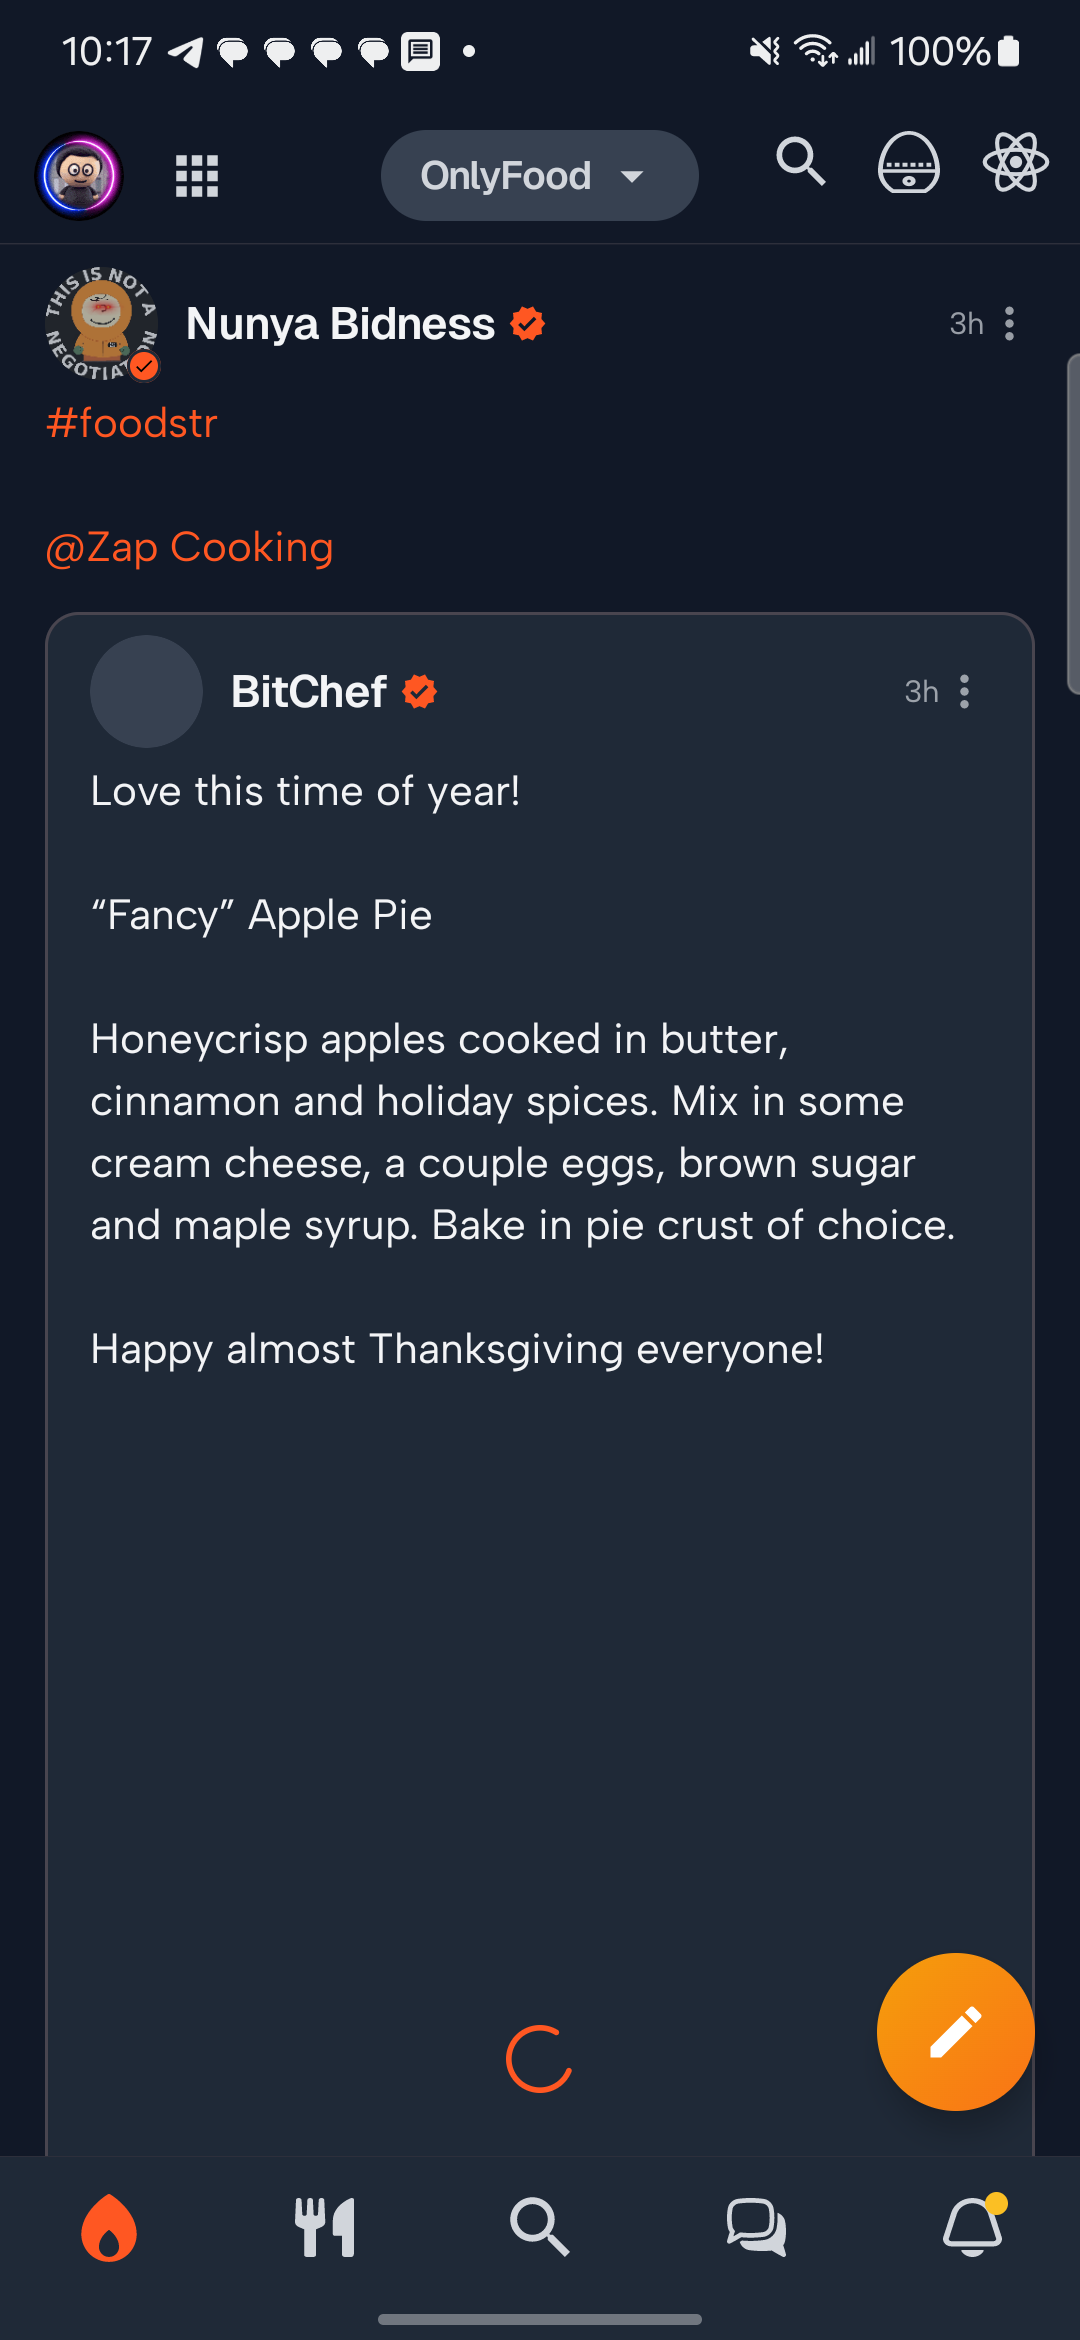
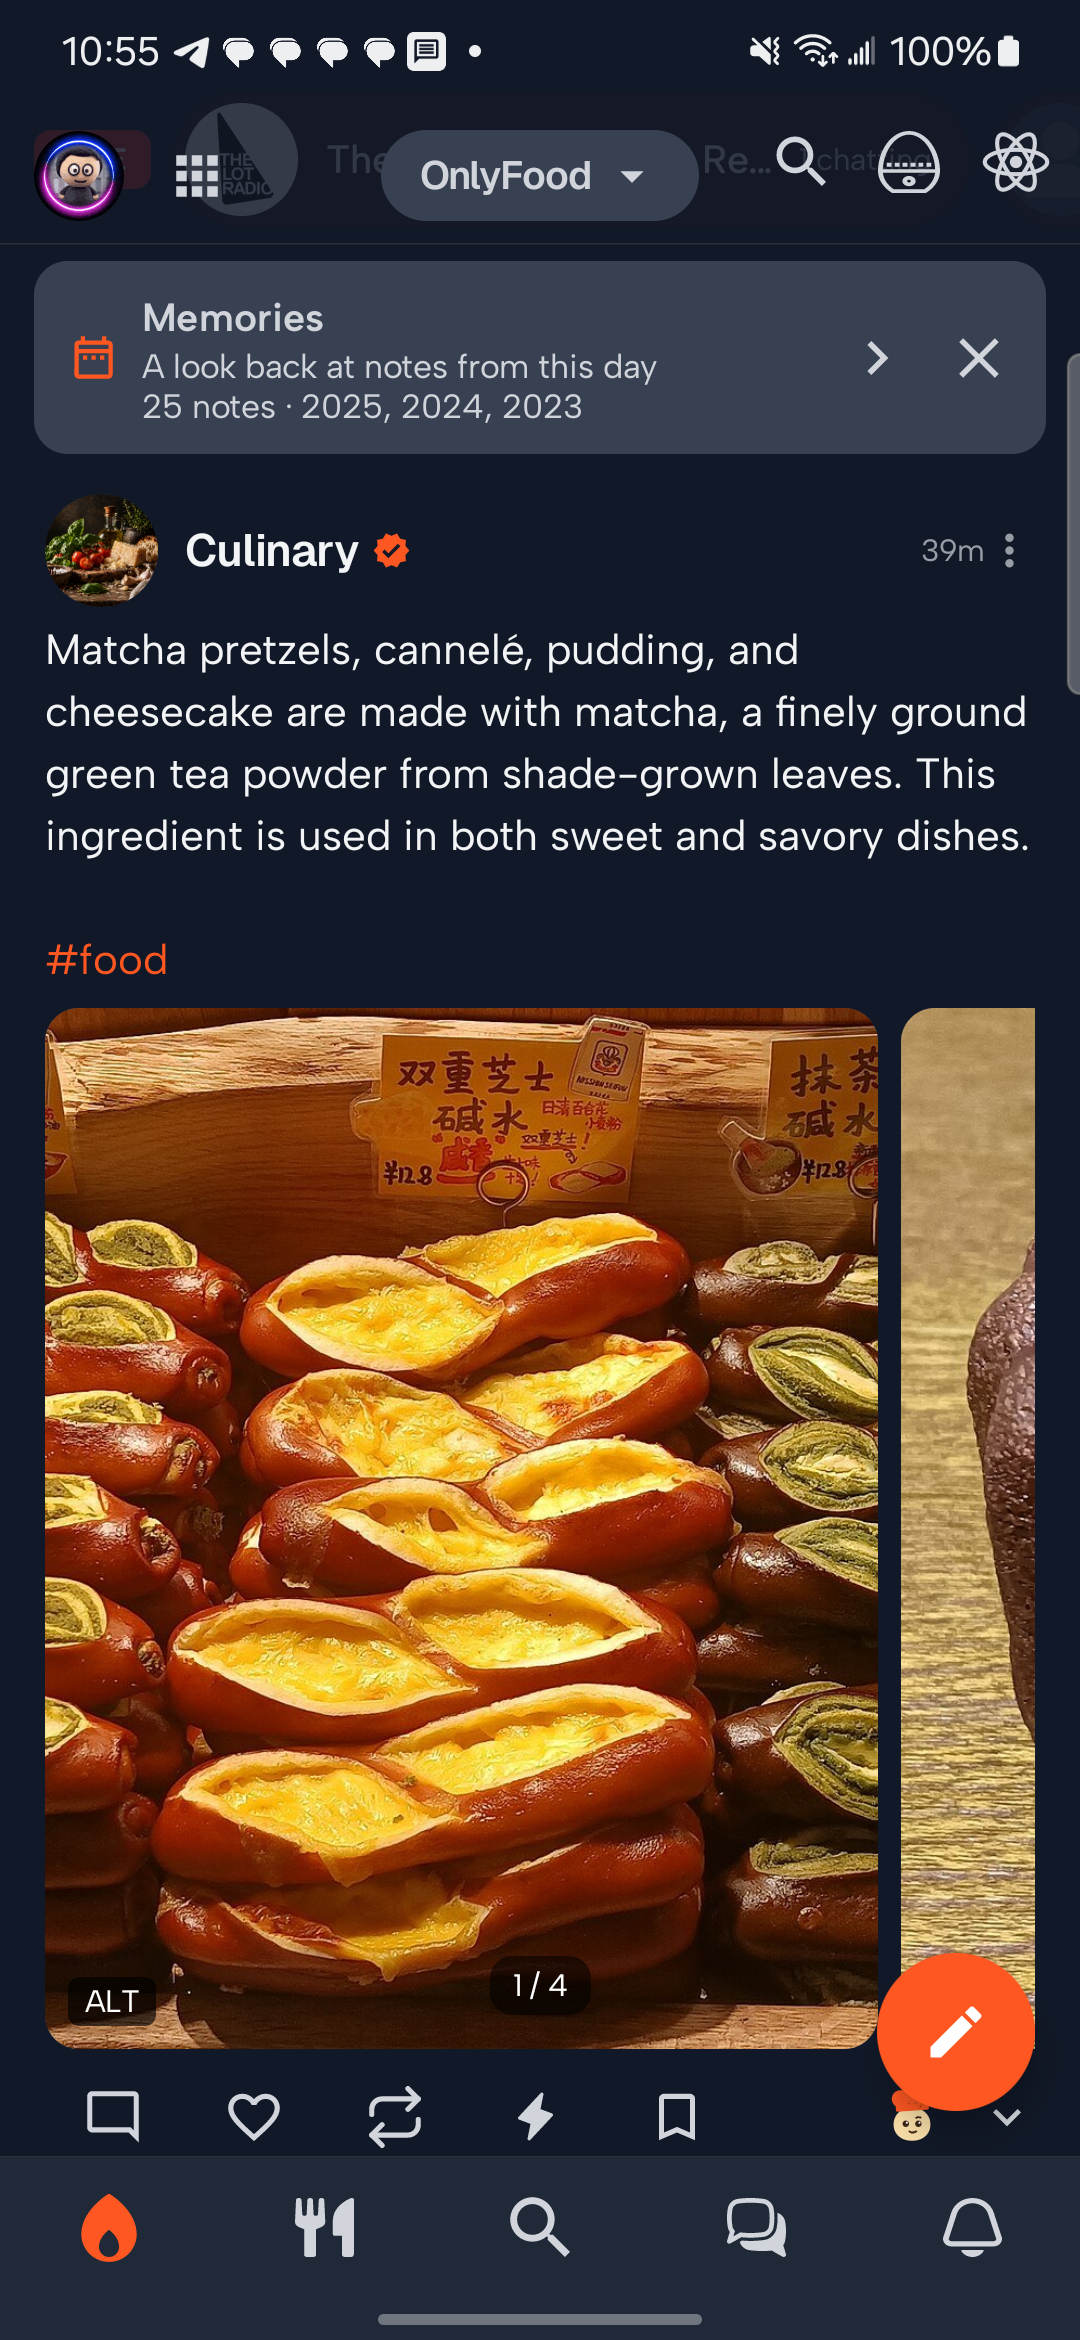
feat(fab): solid theme-primary FAB to match iOS
ZapGradientFab fills with MaterialTheme.colorScheme.primary (#FF5722
dark, #EC4700 light) instead of the amber-500 to orange-500 gradient, so
it is the same solid brand orange as the iOS app's compose FAB. Every
FAB that uses it (feed, recipes, DMs, lists, custom emoji) changes
together. ZapFabGradient had no other user and is removed; ZapAmber and
ZapOrange stay for the recipe trend pill.

Feed screenshots re-shot on the Samsung; the after-tap shot is dropped
(it showed the old gradient), and the collapsed shot is cropped to the
bottom of the screen.

diff --git a/app/src/main/kotlin/cooking/zap/app/ui/component/ZapGradientFab.kt b/app/src/main/kotlin/cooking/zap/app/ui/component/ZapGradientFab.kt
@@ -20,18 +20,20 @@ import androidx.compose.ui.res.painterResource
 import androidx.compose.ui.semantics.Role
 import androidx.compose.ui.unit.dp
 import cooking.zap.app.R
-import cooking.zap.app.ui.theme.ZapFabGradient
+import androidx.compose.material3.MaterialTheme
 
-// Brand palette (amber-500 → orange-500) lives in ui/theme/BrandColors.kt.
 
 private val FAB_SIZE = 56.dp
 
 /**
- * Circular FAB filled with the Zap Cooking brand gradient.
+ * Circular FAB filled with the theme primary — #FF5722 dark, #EC4700 light —
+ * the same solid brand orange the iOS app's FAB uses, so both apps' FABs read
+ * as the same object. (It used to carry the amber→orange brand gradient; the
+ * name stays to keep call sites stable.)
  *
  * Built from a [Box] rather than Material's [androidx.compose.material3.FloatingActionButton]
  * on purpose: the Material FAB draws its own Surface (tonal + shadow layers), and with a
- * transparent container that surface leaves a visible seam over the gradient. A single
+ * transparent container that surface leaves a visible seam over the fill. A single
  * clipped Box gives a clean circle with no artifacts.
  */
 @Composable
@@ -48,7 +50,7 @@ fun ZapGradientFab(
             .shadow(elevation = 6.dp, shape = CircleShape, clip = false)
             .size(FAB_SIZE)
             .clip(CircleShape)
-            .background(brush = ZapFabGradient)
+            .background(MaterialTheme.colorScheme.primary)
             .clickable(
                 interactionSource = interactionSource,
                 indication = ripple(color = Color.White),

diff --git a/app/src/main/kotlin/cooking/zap/app/ui/theme/BrandColors.kt b/app/src/main/kotlin/cooking/zap/app/ui/theme/BrandColors.kt
@@ -1,6 +1,5 @@
 package cooking.zap.app.ui.theme
 
-import androidx.compose.ui.graphics.Brush
 import androidx.compose.ui.graphics.Color
 
 /**
@@ -10,11 +9,3 @@ import androidx.compose.ui.graphics.Color
  */
 val ZapAmber = Color(0xFFF59E0B)
 val ZapOrange = Color(0xFFF97316)
-
-/**
- * Diagonal sweep for filled surfaces (the create-recipe FAB): amber at the
- * top-left fading into deeper orange at the bottom-right. Endpoints are
- * unspecified, so the gradient spans whatever it is drawn into — which makes
- * it wrong for a horizontal stroke; build a sized brush for those.
- */
-val ZapFabGradient = Brush.linearGradient(colors = listOf(ZapAmber, ZapOrange))
